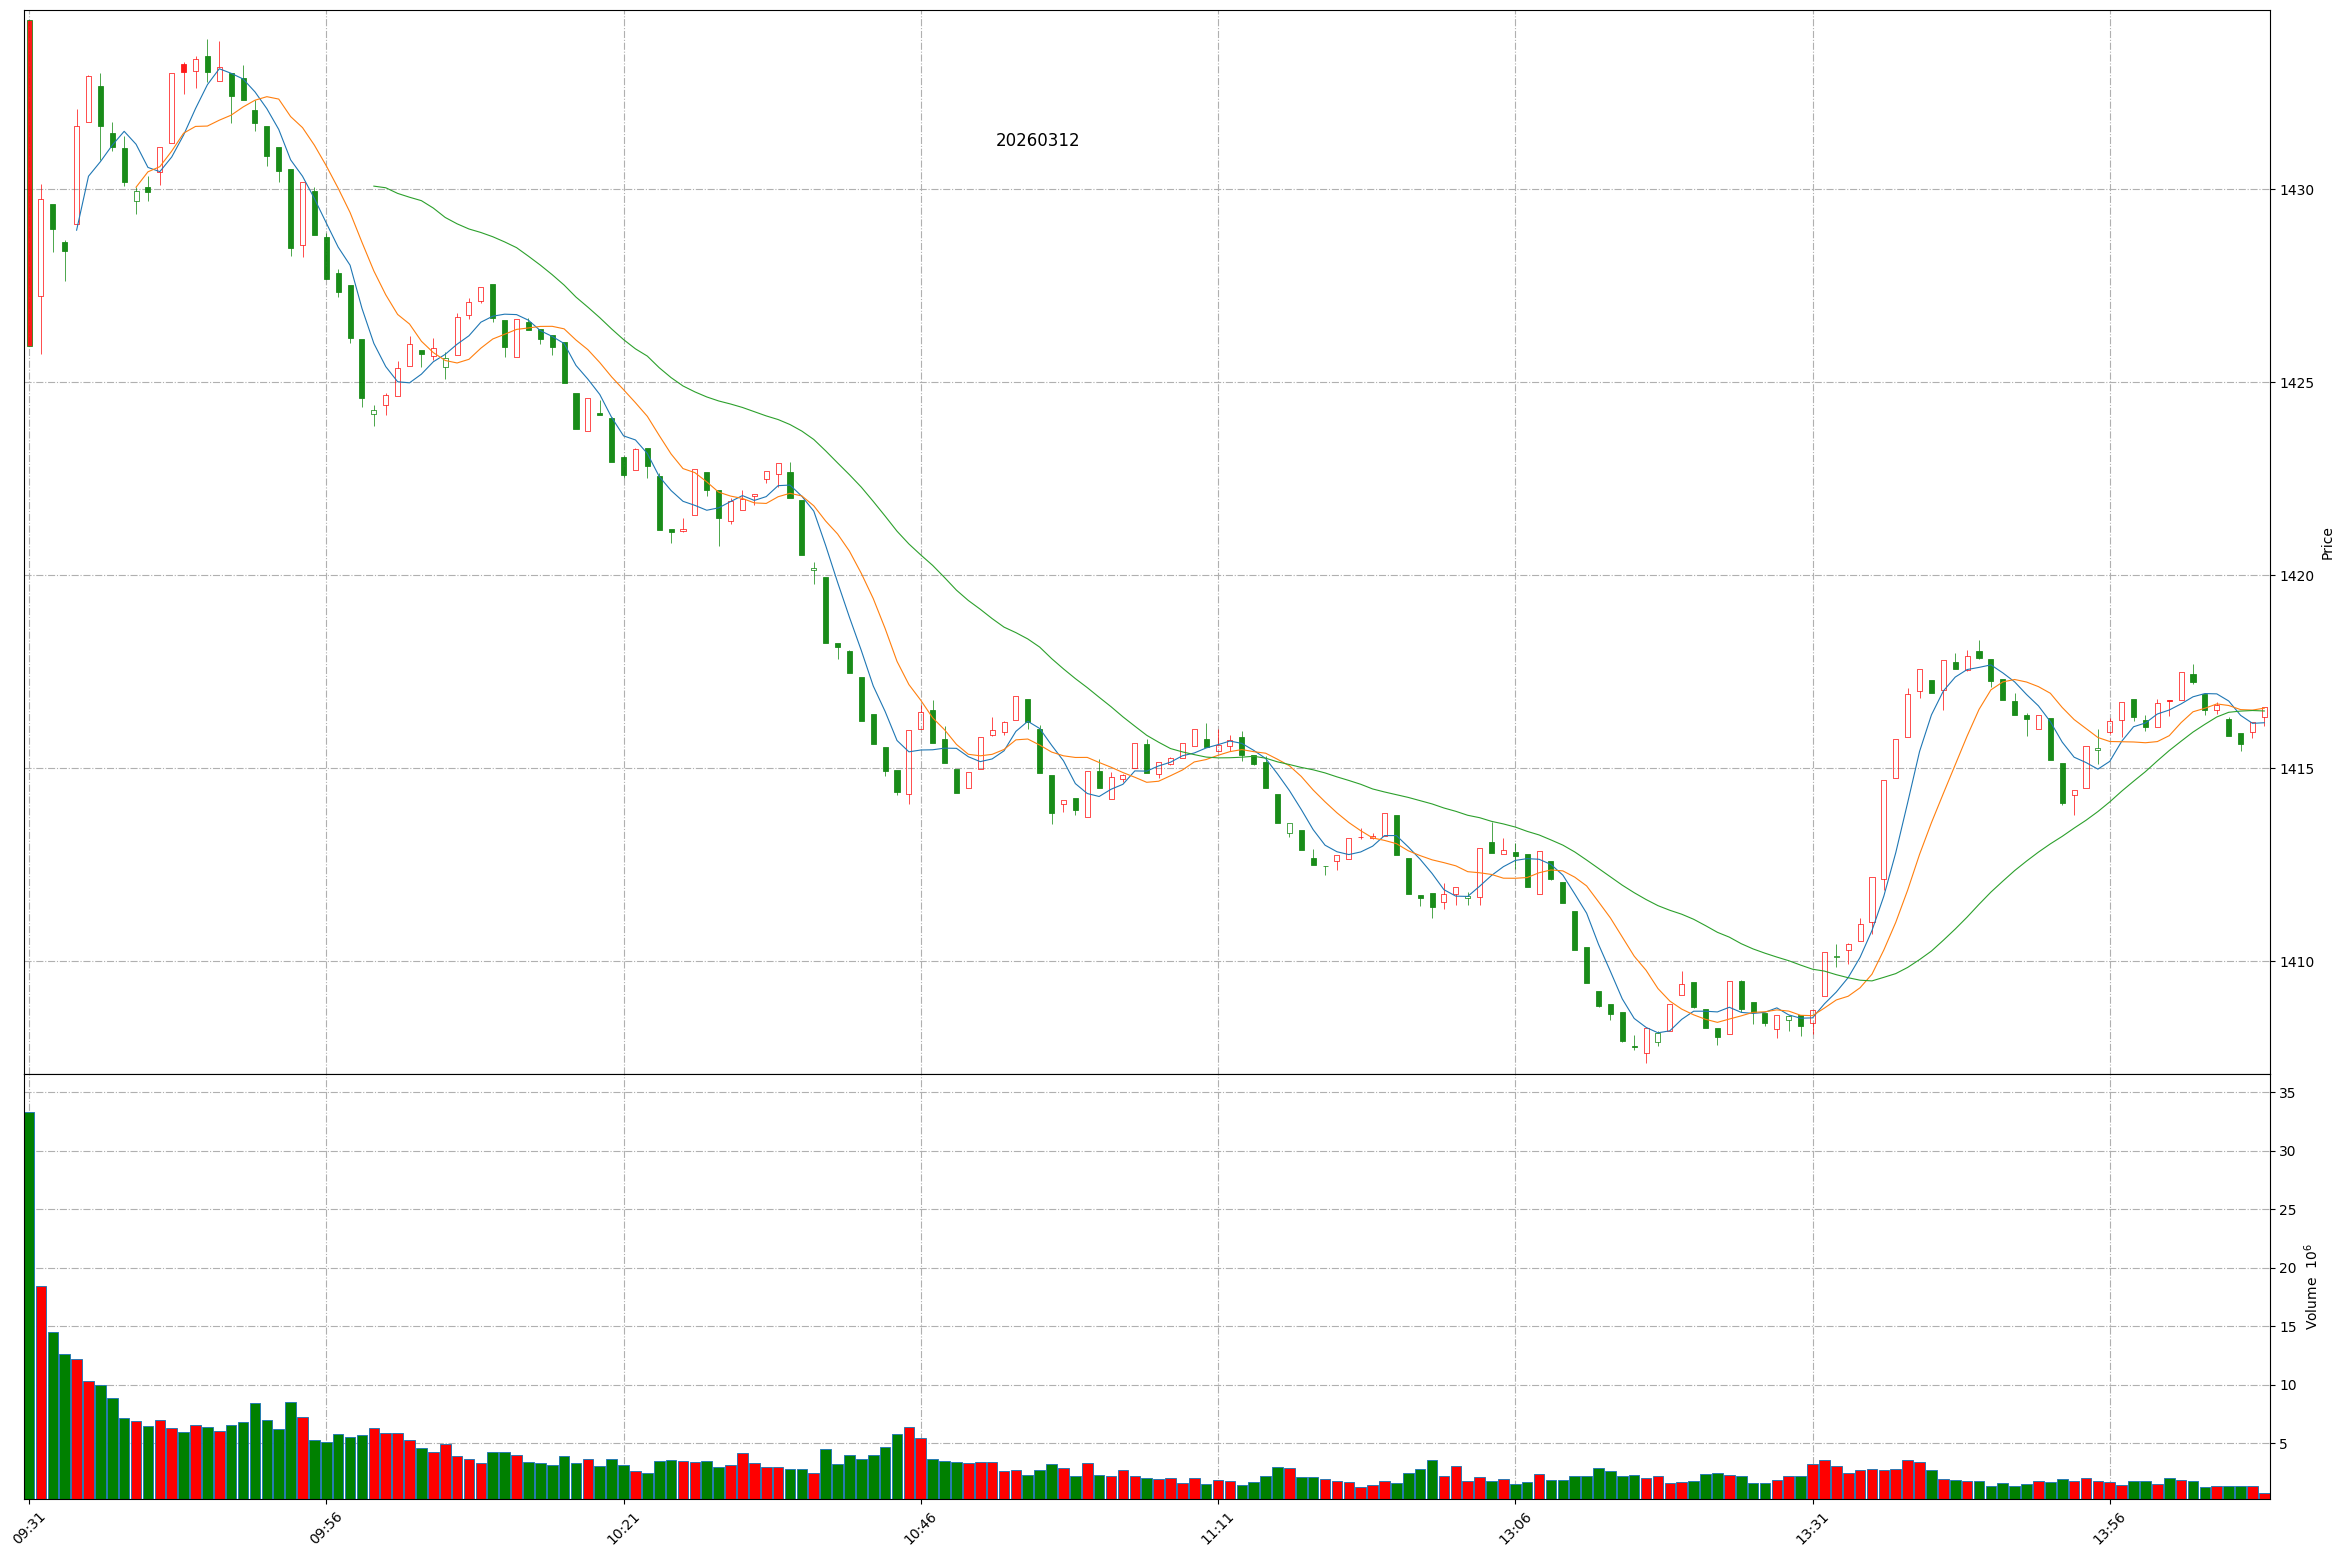
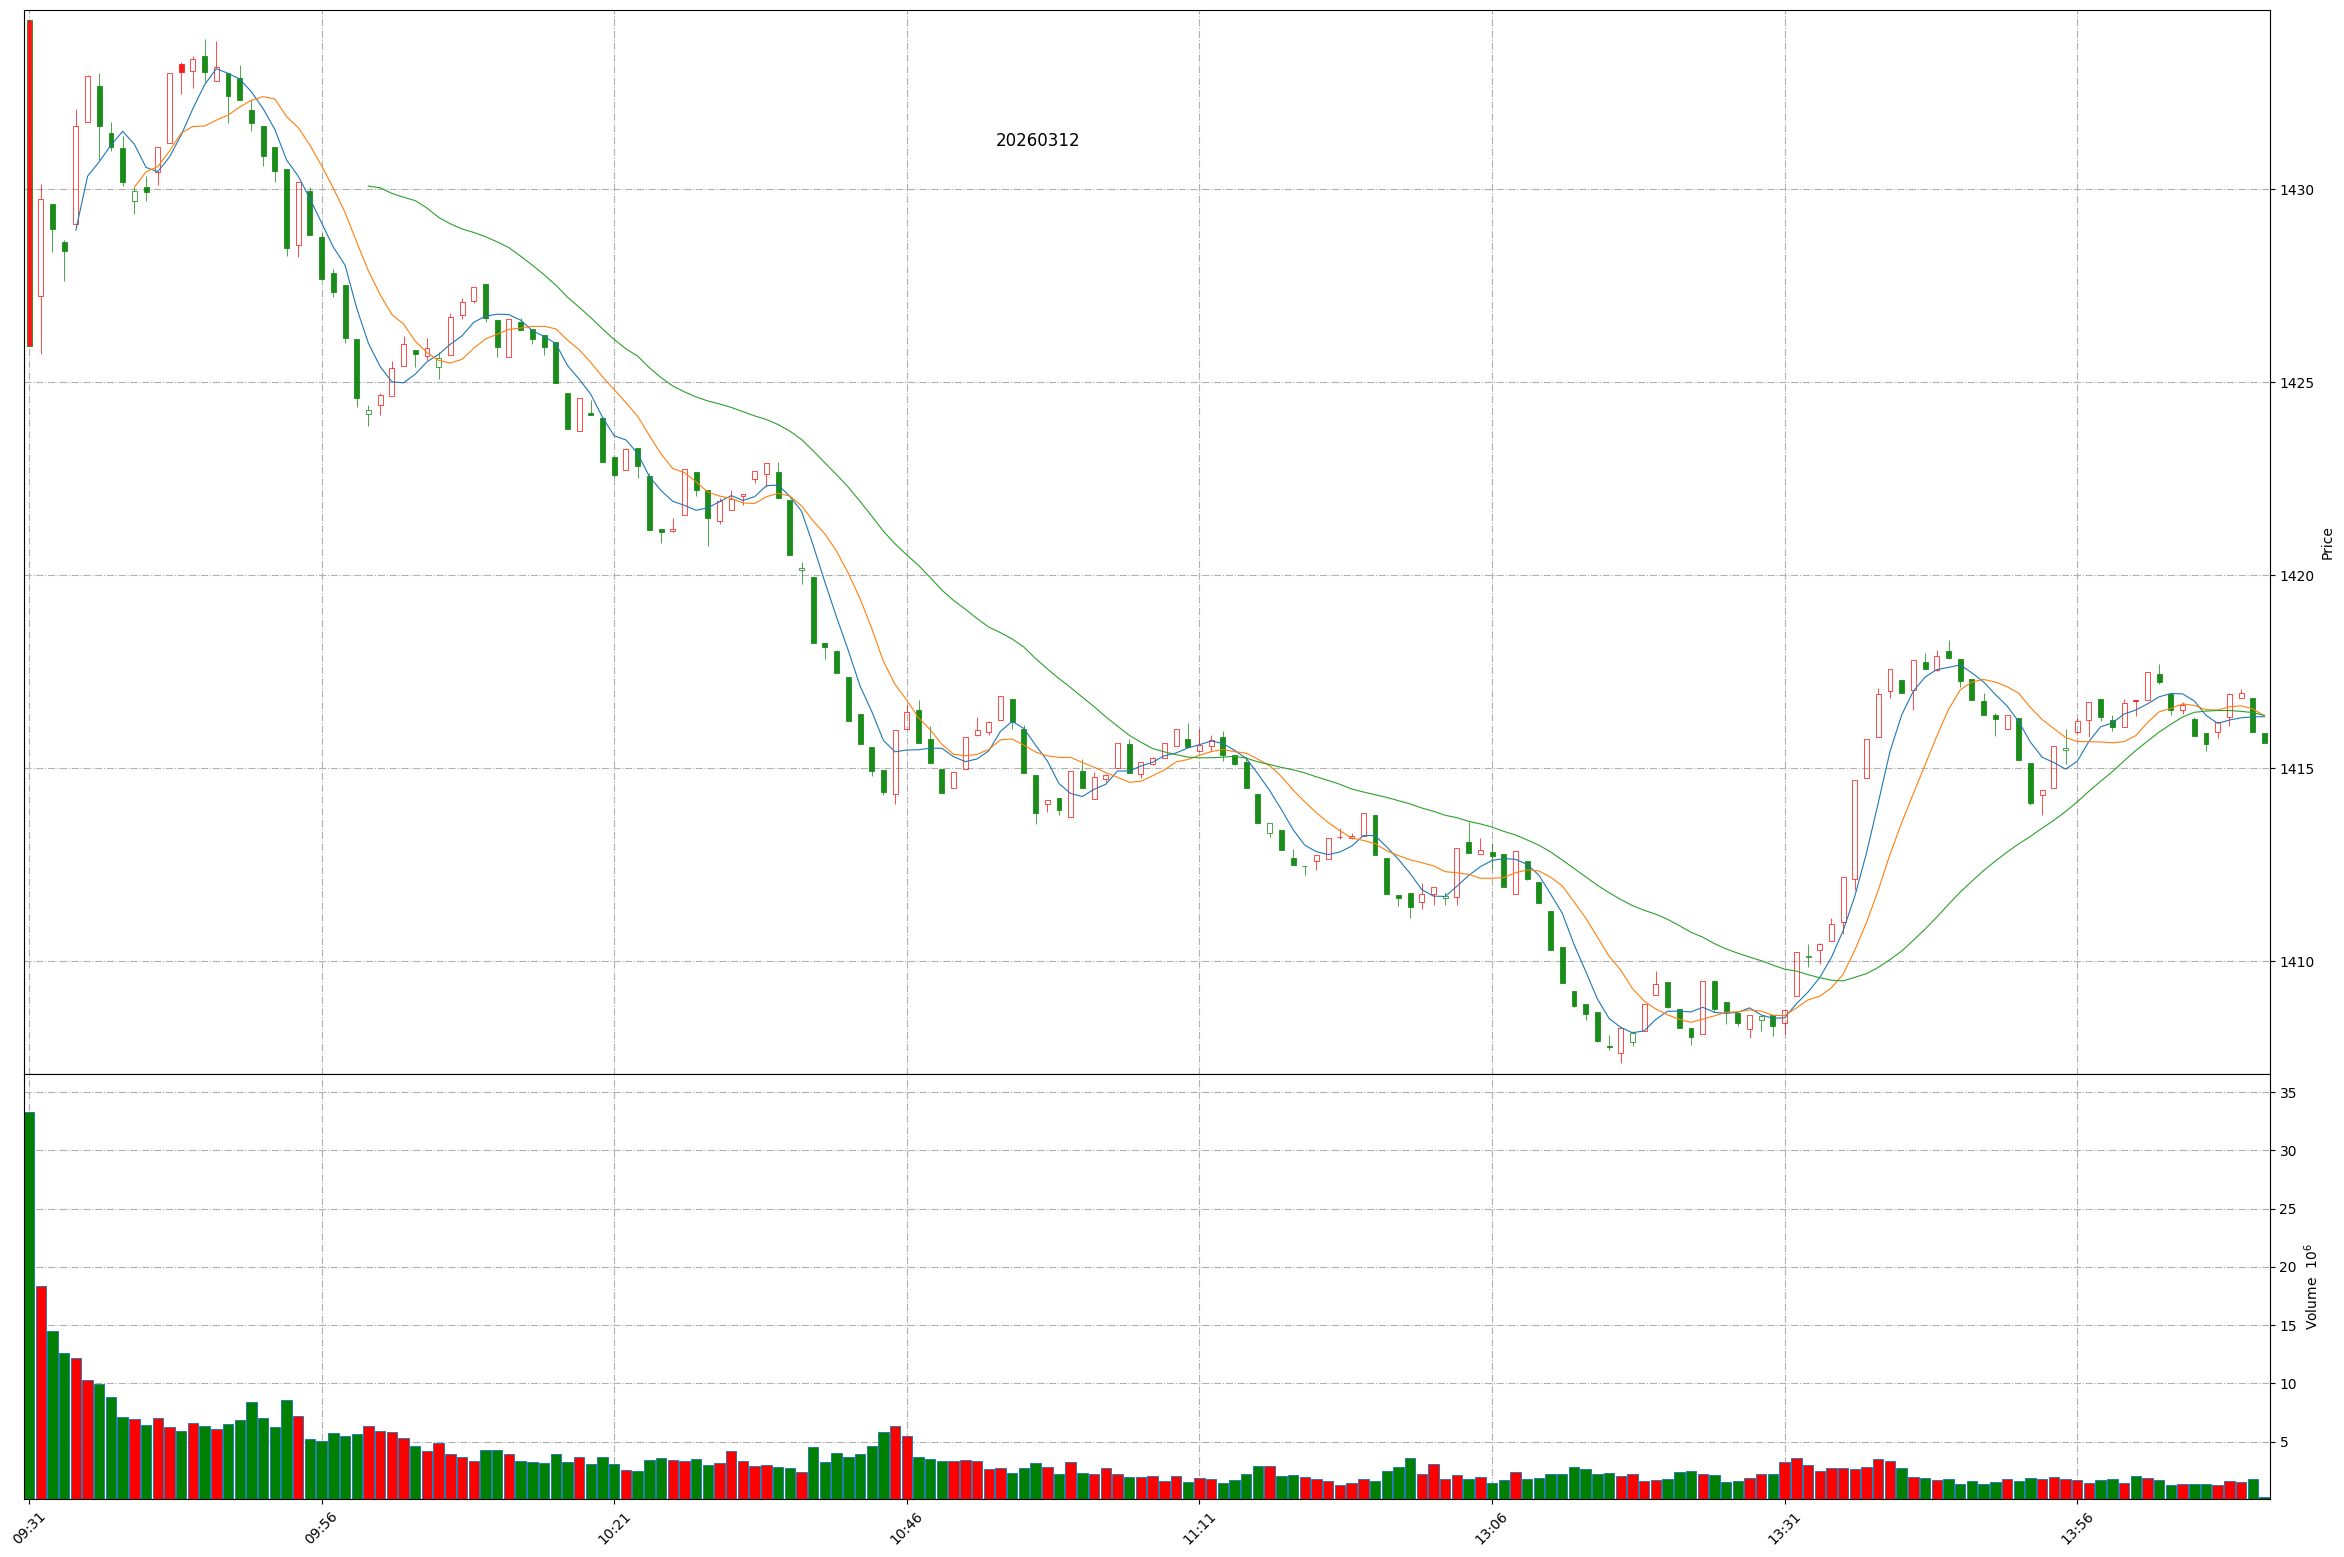
Github action update at 2026-03-12 14:11:19.

Changed region(s): [[0.0311, 0.0308, 0.8097, 0.6782], [0.0311, 0.894, 0.9654, 0.9865], [0.8097, 0.4008, 0.9654, 0.5241]]

diff --git a/README.md b/README.md
@@ -1,11 +1,11 @@
 
 # Daily-A-share-market-quotes 每日 A 股指数（5min 更新）- 20260312
 
-### 上证指数 20260312 14:8
+### 上证指数 20260312 14:11
 ![](./fig/2026/3/20260312-sh000001.png)
 
-### 深证成指 20260312 14:8
+### 深证成指 20260312 14:11
 ![](./fig/2026/3/20260312-sz399001.png)
 
-### 北证50 20260312 14:8
+### 北证50 20260312 14:11
 ![](./fig/2026/3/20260312-bj899050.png)
